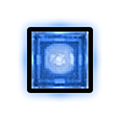
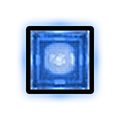
Botones: gris = ancho exacto del vumetro (62), marco 68 [skip ci]
Claude-Session: https://claude.ai/code/session_01LmYTuHAKQSU8qhR6nNkVAi

diff --git a/UI_definitiva/generadores/button_from_ref.py b/UI_definitiva/generadores/button_from_ref.py
@@ -37,7 +37,7 @@ def build(src, body, name, lit):
     pm = np.dstack([rgb*alpha[..., None], alpha])           # premultiplicado para que no salgan bordes
     big = Image.fromarray((np.clip(pm, 0, 1)*65535).astype(np.uint16)[..., 0]) if False else None
     chans = [Image.fromarray(pm[..., k].astype(np.float32), 'F') for k in range(4)]
-    f = (60.0 - (2*1.4 if lit else 0))/(x1 - x0 + 1)                    # cuerpo gris = ancho del vumetro (60); el marco negro va por fuera            # factor de escala al tamano final (cuerpo + marquito = TW)
+    f = (62.0 - (2*1.4 if lit else 0))/(x1 - x0 + 1)                    # cuerpo gris = ancho del vumetro (60); el marco negro va por fuera            # factor de escala al tamano final (cuerpo + marquito = TW)
     n = 120
     res = np.zeros((n, n, 4), np.float32)
     # transformacion: centro del cuerpo -> centro 60,60 del png final
@@ -47,7 +47,7 @@ def build(src, body, name, lit):
         res[..., k] = np.array(t)
     mk = Image.fromarray(mask.astype(np.float32), 'F').transform((n, n), Image.AFFINE, (a_, 0, cx - 60*a_, 0, a_, cy - 60*a_), resample=Image.BICUBIC)
     body_a = np.clip(np.array(mk), 0, 1)
-    BW = 60.0 + 2*RING                         # marco negro: cuerpo + 3 px por lado
+    BW = 62.0 + 2*RING                         # marco negro: cuerpo + 3 px por lado
     K = 8                                      # marquito negro: cuadrado redondeado de TW x TW, dibujado 8x mas grande y reducido
     bl = Image.new('L', (n*K, n*K), 0)
     from PIL import ImageDraw
